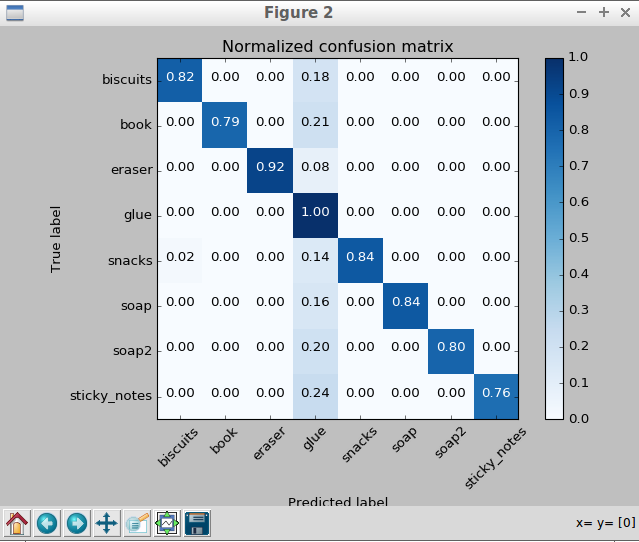
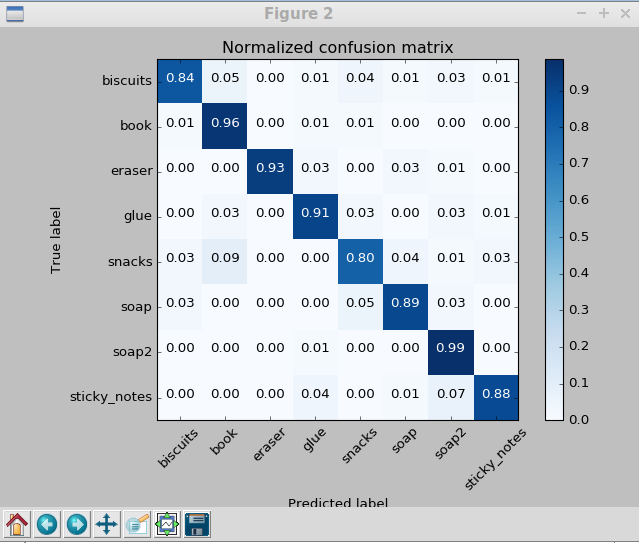
Updated project files and fixed bugs

diff --git a/catkin_ws/src/RoboND-Perception-Project/pr2_robot/scripts/pick_place_project.py b/catkin_ws/src/RoboND-Perception-Project/pr2_robot/scripts/pick_place_project.py
@@ -47,7 +47,7 @@ def send_to_yaml(yaml_filename, dict_list):
     with open(yaml_filename, 'w') as outfile:
         yaml.dump(data_dict, outfile, default_flow_style=False)
 
-# Callback function for your Point Cloud Subscriber
+# Callback function for Point Cloud Subscriber
 def pcl_callback(pcl_msg):
 
     ### Part 1 : Object Segmentation
@@ -278,14 +278,14 @@ def pr2_mover(detected_objects):
         yaml_dict_list.append(yaml_dict)
 
         # Wait for 'pick_place_routine' service to come up
-        # rospy.wait_for_service('pick_place_routine')
-        # try:
-        #     pick_place_routine = rospy.ServiceProxy('pick_place_routine', PickPlace)
-        #     # Insert message variables to be sent as a service request
-        #     resp = pick_place_routine(test_scene_number, object_name, arm_name, pick_pose, place_pose)
-        #     print ("Response: ",resp.success)
-        # except rospy.ServiceException, e:
-        #    print "Service call failed: %s"%e
+        rospy.wait_for_service('pick_place_routine')
+        try:
+            pick_place_routine = rospy.ServiceProxy('pick_place_routine', PickPlace)
+            # Insert message variables to be sent as a service request
+            resp = pick_place_routine(test_scene_number, object_name, arm_name, pick_pose, place_pose)
+            print ("Response: ",resp.success)
+        except rospy.ServiceException, e:
+            print "Service call failed: %s" % (e)
 
     # Output request parameters into output yaml file
     yaml_output_filename = '/home/robond/catkin_ws/output_%d.yaml' % (test_scene_number.data)

diff --git a/code/features.py b/code/features.py
@@ -45,7 +45,7 @@ def compute_color_histograms(cloud, using_hsv=False, nbins=32, bins_range=(0, 25
     return normed_features 
 
 
-def compute_normal_histograms(normal_cloud, nbins=32, bins_range=(0, 256)):
+def compute_normal_histograms(normal_cloud, nbins=32, bins_range=(-1, 1)):
     norm_x_vals = []
     norm_y_vals = []
     norm_z_vals = []

diff --git a/catkin_ws/src/sensor_stick/scripts/capture_features.py b/catkin_ws/src/sensor_stick/scripts/capture_features.py
@@ -38,7 +38,7 @@ if __name__ == '__main__':
     labeled_features = []
 
     progress = 0
-    records_per_model = 50
+    records_per_model = 75
     for model_name in models:
 
         print("Spawning model:", model_name)
@@ -73,4 +73,3 @@ if __name__ == '__main__':
 
 
     pickle.dump(labeled_features, open('training_set.sav', 'wb'))
-

diff --git a/code/capture_features.py b/code/capture_features.py
@@ -38,7 +38,7 @@ if __name__ == '__main__':
     labeled_features = []
 
     progress = 0
-    records_per_model = 50
+    records_per_model = 75
     for model_name in models:
 
         print("Spawning model:", model_name)
@@ -73,4 +73,3 @@ if __name__ == '__main__':
 
 
     pickle.dump(labeled_features, open('training_set.sav', 'wb'))
-

diff --git a/catkin_ws/src/sensor_stick/scripts/train_svm.py b/catkin_ws/src/sensor_stick/scripts/train_svm.py
@@ -91,7 +91,6 @@ y_train = encoder.fit_transform(y_train)
 
 
 clf = svm.SVC(kernel='rbf')
-#clf = svm.SVC(kernel='linear', C=2)
 
 # Set up 5-fold cross-validation
 kf = cross_validation.KFold(len(X_train),

diff --git a/README.md b/README.md
@@ -34,82 +34,19 @@ This pipeline has been implemented in:
 
 **Method** : pcl_callback(pcl_msg)
 
-The following is a snippet of the code:
+**Steps**
 
-```python=
-# Callback function for Point Cloud Subscriber
-def pcl_callback(pcl_msg):
+- The ROS message was first converted to PCL data. Doing this helps to apply various particle cloud filters as mentioned below.
 
-    # Convert ROS msg to PCL data
-    cloud = ros_to_pcl(pcl_msg)
+- **Filter #1 : Statistical Outlier Filter** : Since the RGBD camera output is noisy, this filter helps to remove some noise from the particle cloud. The "mean_k" parameter was set to 3 (i.e. 3 neighbouring points used for detecting outliers) and the threshold scale factor was set to 0.1. Any point with a mean distance larger than global (mean distance+x*std_dev) will be considered outlier by this filter and be removed.
 
-    # Filter #1 : Apply statistical outlier filter to remove noise
-    outlier_filter = cloud.make_statistical_outlier_filter()
-    # Set the number of neighboring points to analyze for any given point
-    outlier_filter.set_mean_k(3)
-    # Set threshold scale factor
-    x = 0.1
-    # Any point with a mean distance larger than global (mean distance+x*std_dev) will be considered outlier
-    outlier_filter.set_std_dev_mul_thresh(x)
-    cloud_filtered = outlier_filter.filter()
+- **Filter #2 : Voxel Grid Downsampling** : This filter reduces the number of points in the point cloud. This in turn helps to reduce the processing power and memory footprint required for further analysis. The parameter LEAF_SIZE was set to 0.01 as it had the best balance between speed and accuracy.
 
-    # Filter #2 : Voxel Grid Downsampling
-    # Create a VoxelGrid filter object for our input point cloud
-    vox = cloud_filtered.make_voxel_grid_filter()
-    # Choose a voxel (also known as leaf) size
-    LEAF_SIZE = 0.01
-    # Set the voxel (or leaf) size  
-    vox.set_leaf_size(LEAF_SIZE, LEAF_SIZE, LEAF_SIZE)
-    # Call the filter function to obtain the resultant downsampled point cloud
-    cloud_filtered = vox.filter()
+- **Filter #3 : Pass through filter** The pass through filter helps to filter out regions by only keeping points within a range of the given Axis. Two different pass through filters were applied : one for the Z-Axis and another one for the Y-Axis. The Z-Axis filter has a threshold of (0.6 to 1.1) and is used to exclude the parts of the scene away from the objects of interest. The Y-Axis filter has a threshold of (-0.5 to +0.5) and is used to remove the drop boxes from the point cloud.
 
-    # Filter #3 : PassThrough Filter for Z-Axis
-    # Create a PassThrough filter object.
-    passthrough = cloud_filtered.make_passthrough_filter()
-    # Assign axis and range to the passthrough filter object.
-    filter_axis = 'z'
-    passthrough.set_filter_field_name(filter_axis)
-    axis_min = 0.6
-    axis_max = 1.1
-    passthrough.set_filter_limits(axis_min, axis_max)
-    # Finally use the filter function to obtain the resultant point cloud. 
-    cloud_filtered = passthrough.filter()
+- **Filter #4 : RANSAC Plane Segmentation** : This filter finds all the points within a point cloud that support a plane model. This helped to filter out the table from the objects as the table conforms to the model of a plane. A model type of 'SACMODEL_PLANE' and method type 'SAC_RANSAC' having max_distance '0.01' worked well as parameters for this filter. 
 
-    # Filter #4 : PassThrough Filter for Y-Axis
-    # Create a PassThrough filter object.
-    passthrough = cloud_filtered.make_passthrough_filter()
-    # Assign axis and range to the passthrough filter object.
-    filter_axis = 'y'
-    passthrough.set_filter_field_name(filter_axis)
-    axis_min = -0.5
-    axis_max = 0.5
-    passthrough.set_filter_limits(axis_min, axis_max)
-    # Finally use the filter function to obtain the resultant point cloud. 
-    cloud_filtered = passthrough.filter()
-
-    # Filter #5 : RANSAC Plane Segmentation
-    # Create the segmentation object
-    seg = cloud_filtered.make_segmenter()
-    # Set the model you wish to fit 
-    seg.set_model_type(pcl.SACMODEL_PLANE)
-    seg.set_method_type(pcl.SAC_RANSAC)
-    # Max distance for a point to be considered fitting the model
-    max_distance = 0.01 # 0.01
-    seg.set_distance_threshold(max_distance)
-    # Call the segment function to obtain set of inlier indices and model coefficients
-    inliers, coefficients = seg.segment()
-    # Extract inliers (that contains only objects and no table points)
-    cloud_objects = cloud_filtered.extract(inliers, negative=True)
-```
-
-As implemented above, the following filters were used:
-1. Statistical Outlier Filter
-2. Voxel Grid Downsampling
-3. Passthrough filter for Z-Axis
-4. Passthrough filter for Y-Axis
-5. RANSAC Plane Segmentation
-
-Thresholds for each filter was found by running the simulation in Gazebo and visualizing the point cloud in RViz.
+The thresholds for each filter were found by running the simulation in Gazebo and visualizing the point cloud in RViz.
 
 ### 2. DBSCAN Clustering Pipeline
 
@@ -118,6 +55,17 @@ This pipeline has been implemented in:
 **File** : [pick_place_project.py](./code/pick_place_project.py)
 
 **Method** : pcl_callback(pcl_msg)
+
+With the help of DBSCAN, the point cloud was clustered into distinct clusters, each corresponding to the object that was to be picked by the PR2 robot arm. The ability of DBSCAN to perform clustering without specifying the no. of clusters, proved to be very useful.
+
+The following parameters were used for this filter:
+ - Cluster tolerance = 0.02
+ - Min Cluster Size = 50
+ - Max Cluster Size = 10000
+
+For visualization purposes, 
+
+**Code snippet :**
 
 ```python=
     # Euclidean Clustering (DBSCAN)
@@ -153,8 +101,6 @@ This pipeline has been implemented in:
     cluster_cloud.from_list(color_cluster_point_list)
 ```
 
-With the help of DBSCAN, the point cloud was clustered into distinct clusters, each corresponding to the object that was to be picked by the PR2 robot arm. The ability of DBSCAN to perform clustering without specifying the no. of clusters, proved to be very useful.
-
 ### 3. Pipeline for feature extraction and training
 
 The pipeline has been implemented in the following files:
@@ -168,13 +114,17 @@ The pipeline has been implemented in the following files:
 **SVM Training**:
 - [train_svm.py](./code/train_svm.py)
 
-**The features that have been used are**: 
- - Color histograms
- - Normal histograms
+**Features used for SVM:** 
+ - Color histograms (bin range 0 to 256)
+ - Normal histograms (bin range -1 to +1)
+
+The bin size for both of these histograms was set to 32. Having too small or too large of a bin size affected the accuracy when testing it in the actual environments.
 
 The **SVM kernel** that was found to give the best result is: **RBF Kernel**
 
-To train this SVM, 50 instances of each object (in a random orientation) was spawned in Gazebo and the features were computed and fitted to the SVM classifier.
+To train this SVM, 75 instances of each object (in a random orientation) was spawned in Gazebo and the features were computed and fitted to the SVM classifier.
+
+It was found that the accuracy of the detected model could be improved greatly by increasing the number of instances spawned (i.e. the training sample). A count of 75 instances (= 75 * 8 = 600 samples) resulted in a total training time of around 30 mins.
 
 The normalized confusion matrix after training is the following:
 
@@ -186,6 +136,14 @@ The object classification pipeline is present in:
 
 **File**: [pick_place_project.py](./code/pick_place_project.py) 
 **Method**: pcl_callback(pcl_msg)
+
+The previously trained SVM classifier model that was dumped using pickle is loaded in this pipeline and is then used to recognize the objects.
+
+For feature extraction, the color and normal histograms are computed and fed to the saved SVM model for classification of the objects.
+
+The names of the object predicted are published to a dedicated ROS topic : '/detected_objects'. This makes it easier to debug and visualize the predictions in RViz.
+
+**Code snippet:**
 
 ```python=
     # Object classification
@@ -230,8 +188,6 @@ The object classification pipeline is present in:
     rospy.loginfo('Detected {} objects: {}'.format(len(detected_objects_labels), detected_objects_labels))
 ```
 
-The previously trained SVM classifier model that was dumped using pickle is loaded in this pipeline and is then used to recognize the objects.
-
 ### 5. Pick and Place by controlling arms of PR2 Robot
 
 The PR2 robot arm pick and place pipeline is coded in:
@@ -239,91 +195,13 @@ The PR2 robot arm pick and place pipeline is coded in:
 **File**: [pick_place_project.py](./code/pick_place_project.py) 
 **Method**: pr2_mover(detected_objects)
 
-```python=
-def pr2_mover(detected_objects):
+The list of all objects to be picked up is obtained from the ROS parameter server having key as '/object_list'.
 
-    """Function to load parameters and request PickPlace service"""
+Similarly, the details of the name and location of each dropbox is obtained from the ROS parameter '/dropbox'.
 
-    # Initialize variables
-    labels = []
-    centroids = [] # to be list of tuples (x, y, z)
+For each detected object, the centroid of the object is computed. This information is used to create the 'Pick' and 'Pose' ROS messages. These messages are then sent over to the ROS service 'pick_place_routine' to move the PR2 robot arms.
 
-    yaml_dict_list = []
-
-    # Get/Read parameters
-    pick_list = rospy.get_param('/object_list')
-
-    # If object detection isn't robust enough, skip this cycle
-    if len(pick_list) != len(detected_objects):
-        print "Ignoring cycle. Pickup size : %d, Detected size : %d" % (len(pick_list), len(detected_objects))
-        return
-
-    detected_obj_dict = {}
-    for det_obj in detected_objects:
-        detected_obj_dict[det_obj.label] = det_obj
-
-    dropbox_param = rospy.get_param('/dropbox')
-    dropbox_group_dict = {}
-    for dropbox_obj in dropbox_param:
-        dropbox_group_dict[dropbox_obj['group']] = dropbox_obj
-
-    # Get test scene number
-    test_scene_number = Int32()
-    test_scene_number.data = rospy.get_param('/test_scene_number')
-
-    # Loop through the pick list
-    for pick_obj in pick_list:
-
-        detected_obj = detected_obj_dict[pick_obj['name']]
-
-        # Get the PointCloud for a given object and obtain it's centroid
-        label = detected_obj.label
-        object_name = String()
-        object_name.data = pick_obj['name']
-        
-        points_arr = ros_to_pcl(detected_obj.cloud).to_array()
-        centroid = np.mean(points_arr, axis=0)[:3]
-        group = pick_obj['group']
-
-        # Create Pick Pose
-        pick_pose = Pose()
-        pick_pose.position = Point()
-        pick_pose.position.x = np.asscalar(centroid[0])
-        pick_pose.position.y = np.asscalar(centroid[1])
-        pick_pose.position.z = np.asscalar(centroid[2])
-
-        # Create 'place_pose' for the object
-        place_pose = Pose()
-        place_pose.position = Point()
-        place_pose.position.x = dropbox_group_dict[group]['position'][0]
-        place_pose.position.y = dropbox_group_dict[group]['position'][1]
-        place_pose.position.z = dropbox_group_dict[group]['position'][2]
-
-        # Assign the arm to be used for pick_place
-        arm_name = String()
-        arm_name.data = dropbox_group_dict[group]['name']
-
-        # Create a YAML dictionary
-        yaml_dict = make_yaml_dict(test_scene_number, arm_name, object_name, pick_pose, place_pose)
-        yaml_dict_list.append(yaml_dict)
-
-        # Wait for 'pick_place_routine' service to come up
-        rospy.wait_for_service('pick_place_routine')
-        try:
-            pick_place_routine = rospy.ServiceProxy('pick_place_routine', PickPlace)
-            # Insert message variables to be sent as a service request
-            resp = pick_place_routine(test_scene_number, object_name, arm_name, pick_pose, place_pose)
-            print ("Response: ",resp.success)
-        except rospy.ServiceException, e:
-            print "Service call failed: %s"%e
-
-    # Output request parameters into output yaml file
-    yaml_output_filename = '/home/robond/catkin_ws/output_%d.yaml' % (test_scene_number.data)
-    send_to_yaml(yaml_output_filename, yaml_dict_list)
-    print "Yaml output saved at : %s" % (yaml_output_filename)
-```
-
-The relevant parameters are loaded from the ROS parameter server and together with the detected object positions, is used to form the request messages required for sending pick and place instructions to the PR2 Robot arms.
+For debugging purposes, and also to satisfy the Udacity project requirements, these Pick and Pose messages were dumped into output YAML files.
 
 #### Results of object recognition and pick-place requests
 
